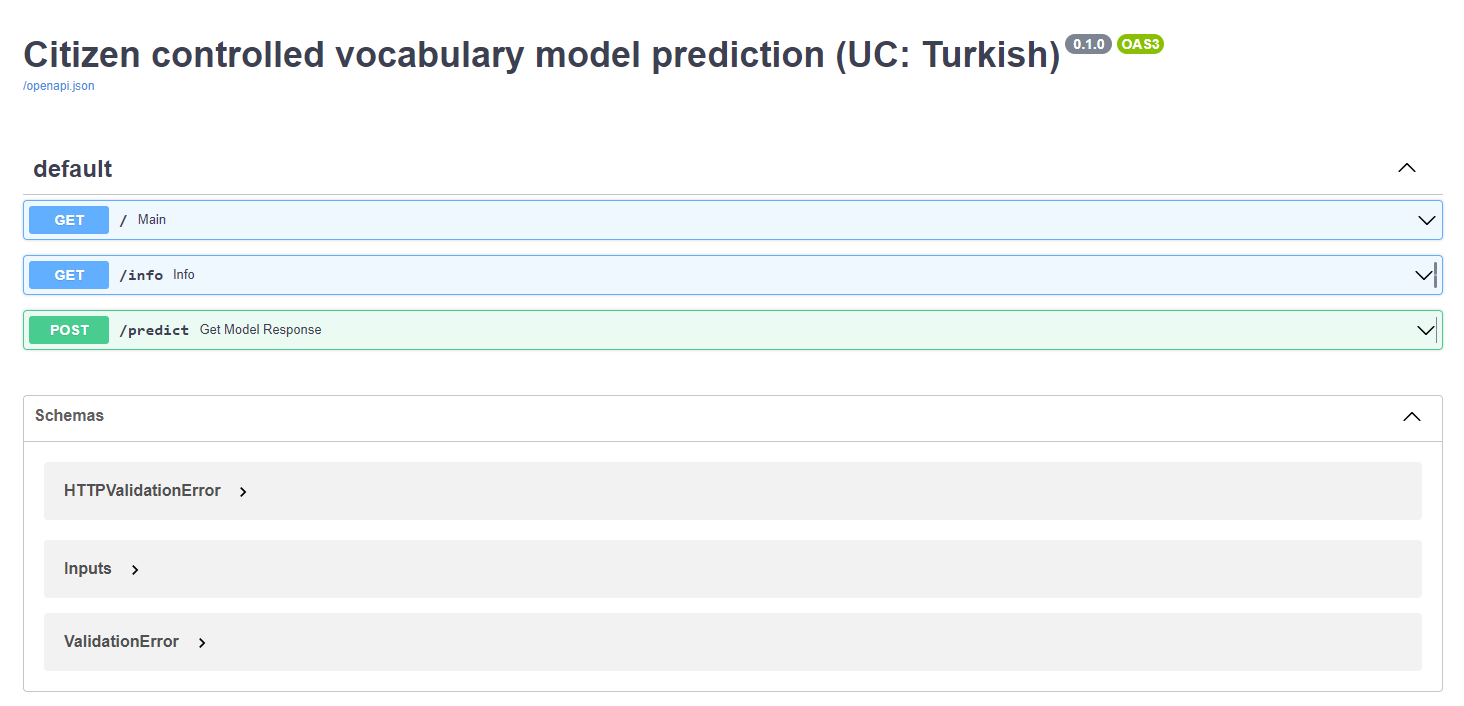
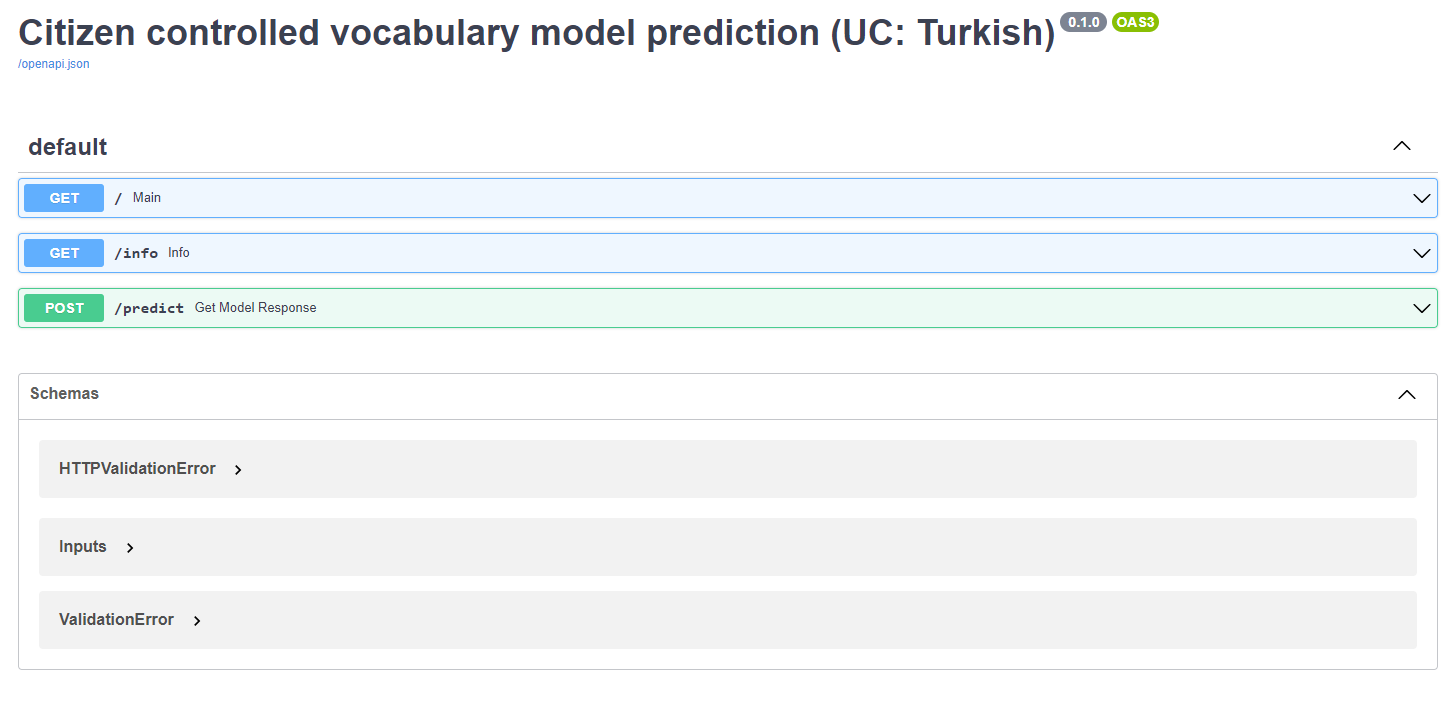
Docker (TUR)

diff --git a/Deployment/Turkish/application/app.py b/Deployment/Turkish/application/app.py
@@ -4,43 +4,28 @@ from pydantic import BaseModel
 import pickle
 import joblib
 import spacy
+import spacyturk
 from application.utils import hard_rules
 
-app = FastAPI(title = 'Citizen controlled vocabulary model prediction (UC: Portuguese)')
-
-Model = TypeVar('Model')
-def load_spacy_model(model_name: str) -> Model:
-    """
-    Function which loads or downloads, the required nlp model, while disabling a list of unnecessary components.
-    
-    Parameters
-    ----------
-    model_name: path to spaCy model (str).
-
-    Returns
-    -------
-    nlp: the spacy nlp object (Model)
-    """
-    try:
-        nlp = spacy.load(model_name)
-    except OSError:
-        spacy.cli.download(model_name)
-        nlp = spacy.load(model_name)
-    return nlp
+app = FastAPI(title = 'Citizen controlled vocabulary model prediction (UC: Turkish)')
 
 
 
 class Parameters():
     def __init__( self ):
-        self.model_name = "Citizen controlled vocabulary model prediction (UC: Portuguese)"
+        self.model_name = "Citizen controlled vocabulary model prediction (UC: Turkish)"
         self.version    = "v1.0"
         self.author     = "NovelCore"
         self.model_path = 'Model/model.joblib'
-        self.spacy_model = 'pt_core_news_sm'
+        self.spacy_model = 'tr_floret_web_md'
         self.label_encoder_path = 'Model/Label_encoder.pkl'
 
+        # Load classification model
         self.model = joblib.load(open(self.model_path, 'rb'))
-        self.nlp = load_spacy_model(self.spacy_model)
+        # Download & Load SpaCy model
+        spacyturk.download(self.spacy_model)
+        self.nlp = spacy.load(self.spacy_model)
+        # Load label encoder
         self.encoder = pickle.load(open(self.label_encoder_path, 'rb'))
 
 args = Parameters()

diff --git a/Deployment/Turkish/README.md b/Deployment/Turkish/README.md
@@ -21,7 +21,7 @@ To check your application
 ```
 # curl -X GET http://localhost:8000/
 # curl -X GET http://localhost:8000/info
-# curl -X POST http://localhost:8000/predict -H "accept: application/json" -H "Content-Type: application/json" -d "{\"text\": \"Gülen\"}"
+# curl -X POST http://localhost:8000/predict -H "accept: application/json" -H "Content-Type: application/json" -d "{\"text\": \"Gülen\", \"evidence_type\": \"ID\"}"
   ```
 
 
